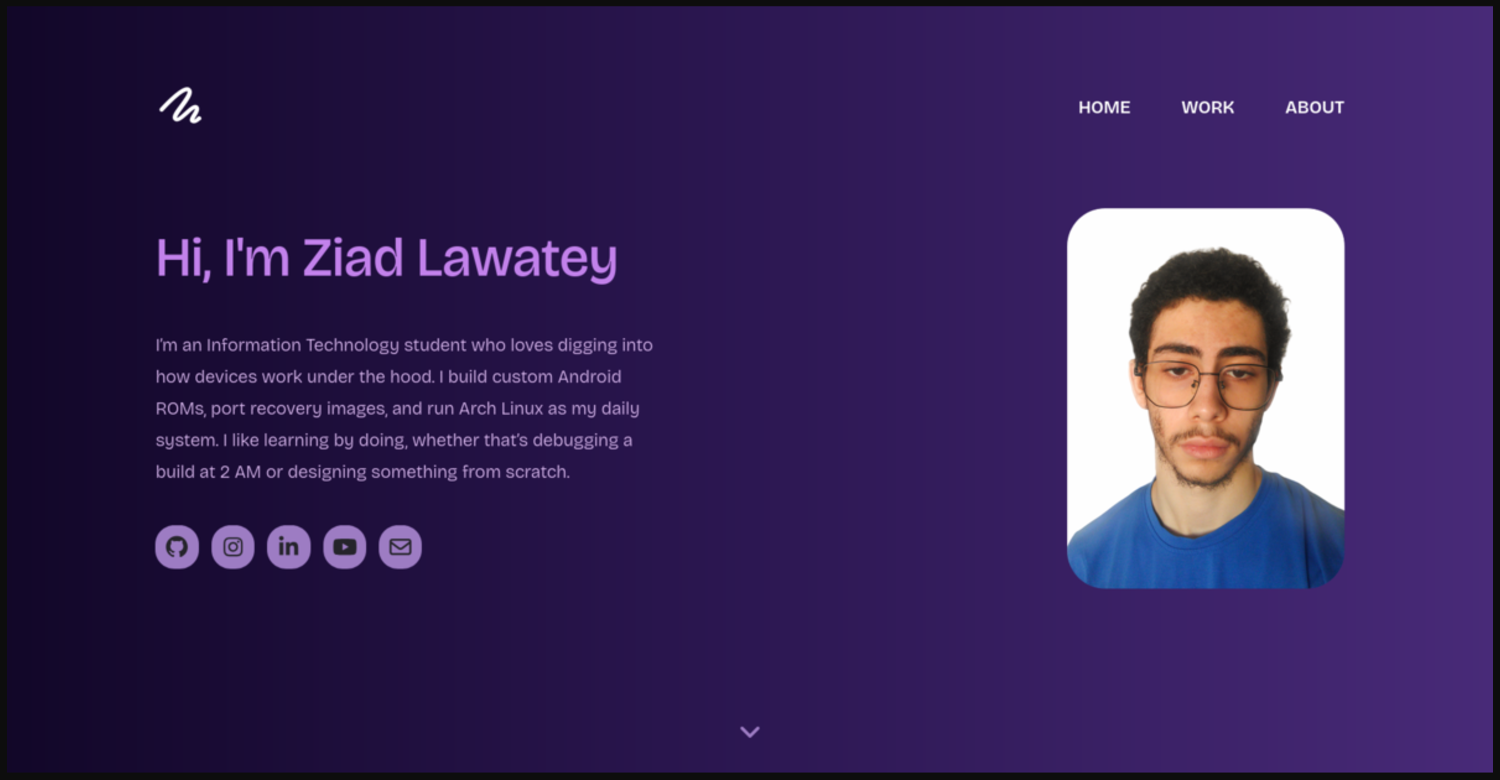
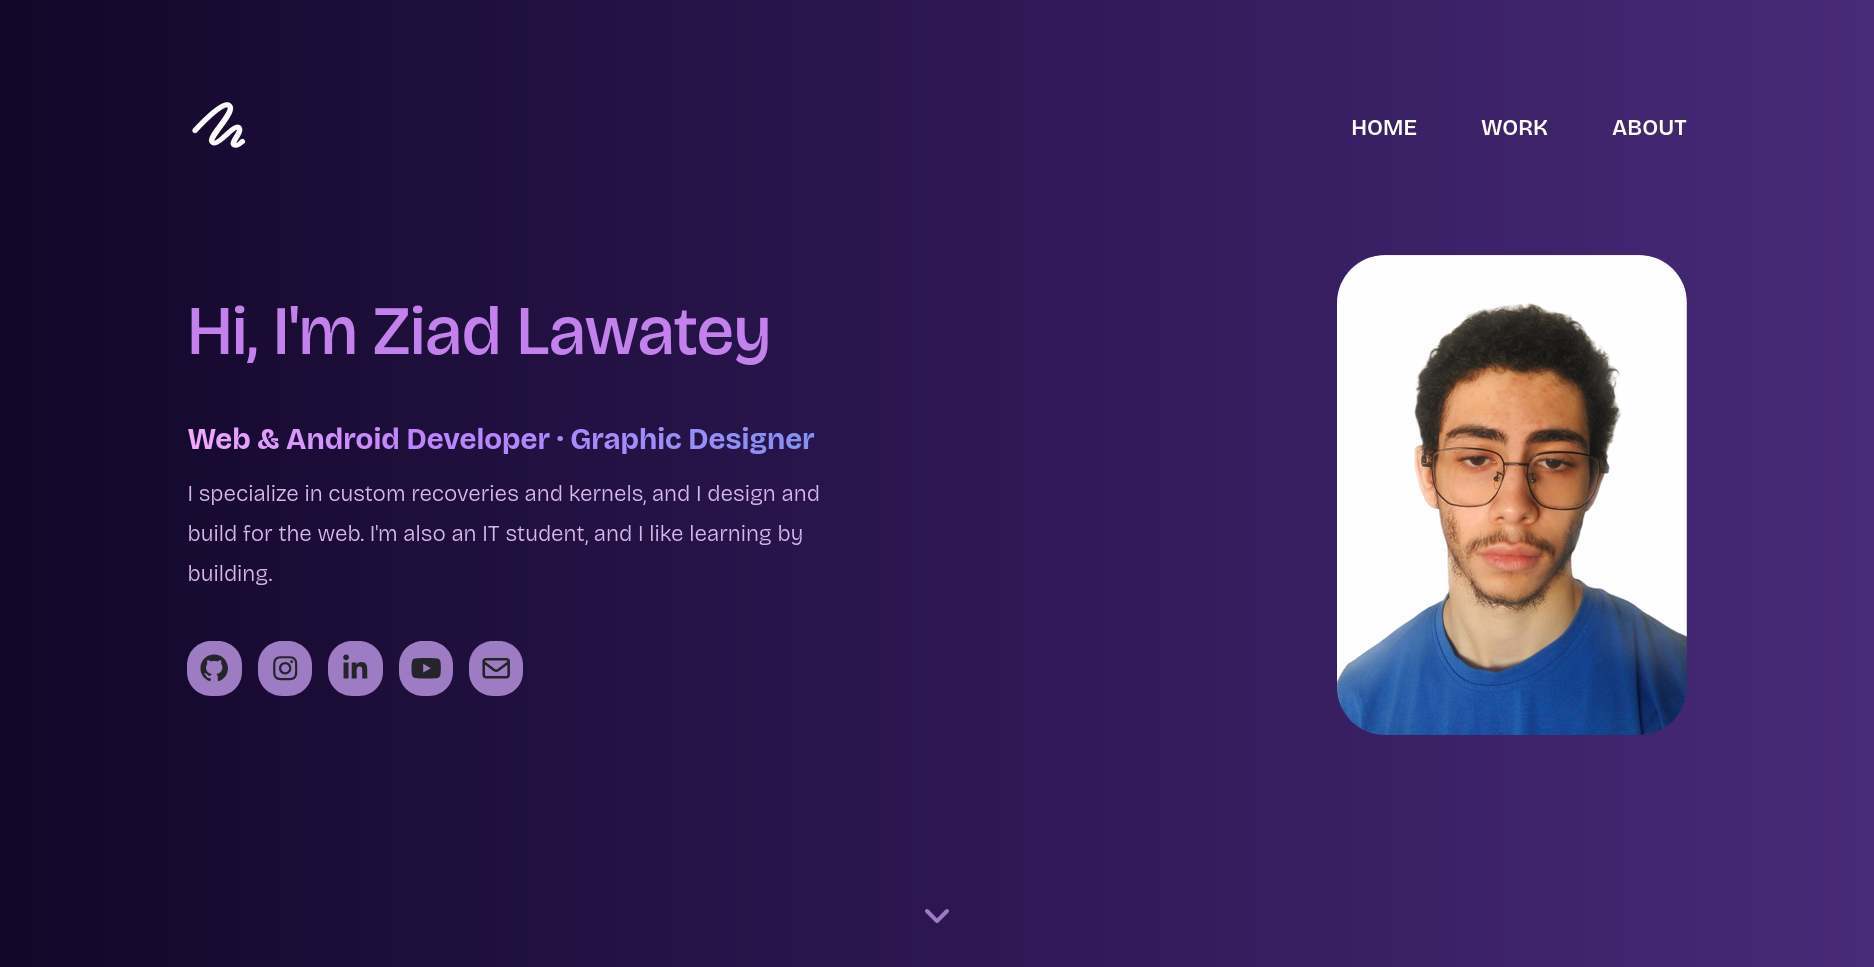
Adding cool hover animation on the nav bar with some fixes too

diff --git a/index.html b/index.html
@@ -75,24 +75,35 @@
       </a>
       <nav>
         <ul>
-          <li><a href="#home">HOME</a></li>
-          <li><a href="#work">WORK</a></li>
-          <li><a href="#about">ABOUT</a></li>
+          <li class="home">
+            <a href="#home">HOME</a>
+            <div class="home-line line"></div>
+          </li>
+          <li class="work">
+            <a href="#work">WORK</a>
+            <div class="work-line line"></div>
+          </li>
+          <li class="about">
+            <a href="#about">ABOUT</a>
+            <div class="about-line line"></div>
+          </li>
         </ul>
+        <div class="bottom-line"></div>
       </nav>
     </header>
     <main>
       <section id="home">
-        <div class="hero-container">
+        <div class="hero">
           <div class="hero-aboutme">
             <h1>Hi, I'm Ziad Lawatey</h1>
-            <p>
-              I’m an Information Technology student who loves digging into how
-              devices work under the hood. I build custom Android ROMs, port
-              recovery images, and run Arch Linux as my daily system. I like
-              learning by doing, whether that’s debugging a build at 2 AM or
-              designing something from scratch.
-            </p>
+            <div class="hero-text">
+              <h3>Web & Android Developer · Graphic Designer</h3>
+              <p>
+                I specialize in custom recoveries and kernels, and I design and
+                build for the web. I'm also an IT student, and I like learning
+                by building.
+              </p>
+            </div>
             <ul class="hero-links">
               <li>
                 <a
@@ -167,14 +178,31 @@
           </div>
           <img src="assets/selfie.png" class="hero-selfie" alt="selfie" />
         </div>
-        <a href="#work" class="next-section-arrow"
+        <a href="#work" class="next-section-arrow" aria-label="Scroll to work"
           ><svg xmlns="http://www.w3.org/2000/svg" viewBox="0 0 640 640">
             <path
               d="M297.4 438.6C309.9 451.1 330.2 451.1 342.7 438.6L502.7 278.6C515.2 266.1 515.2 245.8 502.7 233.3C490.2 220.8 469.9 220.8 457.4 233.3L320 370.7L182.6 233.4C170.1 220.9 149.8 220.9 137.3 233.4C124.8 245.9 124.8 266.2 137.3 278.7L297.3 438.7z"
             /></svg
         ></a>
       </section>
-      <section id="work"></section>
+      <section id="work">
+        <div class="projects">
+          <label class="frontend-projects" for="front-end" checked>
+            <input type="radio" name="same" id="front-end" />
+            <span class="elbolbol">WEBSITES</span>
+          </label>
+
+          <label class="graphic-projects" for="graphic-design">
+            <input type="radio" name="same" id="graphic-design" />
+            <span class="elbolbol">GRAPHIC DESIGNS</span>
+          </label>
+
+          <label class="android-projects" for="android">
+            <input type="radio" name="same" id="android" />
+            <span class="elbolbol">ADNROID</span>
+          </label>
+        </div>
+      </section>
       <section id="about"></section>
       <a href="#home" class="back-to-top">
         <svg

diff --git a/src/styles/styles.css b/src/styles/styles.css
@@ -23,7 +23,7 @@
   /* space above and below the header */
   --header-gap: 4.85em;
   /* height of the hero so the first screen is filled */
-  --home-h: calc(100vh - 150px - 2 * var(--header-gap));
+  --home-h: calc(100vh - 100px - 2 * var(--header-gap));
 }
 
 body {
@@ -73,13 +73,39 @@ nav ul {
 }
 
 nav li {
+  position: relative;
   margin-left: 4rem;
   font-size: 1.4rem;
   color: #fff;
 }
 
-nav li:first-child {
+nav .home {
   margin-left: 0;
+}
+
+.line {
+  /* display: none; */
+  position: absolute;
+  width: 0;
+  bottom: -5px;
+  height: 2px;
+  background-color: var(--icon-bg);
+  transition: width 0.4s;
+}
+
+nav:has(.home:hover) .home-line {
+  display: block;
+  width: 100%;
+}
+
+nav:has(.work:hover) .work-line {
+  display: block;
+  width: 100%;
+}
+
+nav:has(.about:hover) .about-line {
+  display: block;
+  width: 100%;
 }
 
 #home {
@@ -91,7 +117,7 @@ nav li:first-child {
   scroll-margin-top: var(--home-h);
 }
 
-.hero-container {
+.hero {
   display: grid;
   grid-template-columns: 1fr auto;
   grid-template-areas: "aboutme selfie";
@@ -116,7 +142,7 @@ nav li:first-child {
   transform: translateX(100px);
   transition:
     transform 0.3s ease-in-out,
-    bottom 0.3s ease-out;
+    bottom 0.2s ease-out;
 }
 
 .back-to-top svg {
@@ -138,14 +164,31 @@ nav li:first-child {
   font-weight: 500;
 }
 
-.hero-aboutme p {
+.hero-text {
   min-width: 25rem;
   max-width: 40rem;
   margin: 3rem 0;
   color: var(--text);
+}
+
+.hero-text h3 {
+  background: linear-gradient(
+    90deg,
+    #f0abfc 0%,
+    #c084fc 35%,
+    #a78bfa 65%,
+    #8093f1 100%
+  );
+  color: transparent;
+  background-clip: text;
+  font-size: 1.85rem;
+  margin-bottom: 1rem;
+}
+
+.hero-text p {
+  line-height: 2.5rem;
   font-size: 1.4rem;
   font-weight: 300;
-  line-height: 2.5rem;
 }
 
 .hero-links {
@@ -175,21 +218,40 @@ nav li:first-child {
 .next-section-arrow {
   width: 2.5em;
   height: 2.5em;
-  margin: 0 auto;
+  margin: 0 auto 2rem;
   fill: var(--icon-bg);
 }
 
 #work {
   min-height: 100vh;
+  scroll-margin-top: var(--header-h);
+}
+
+.projects {
+  display: flex;
+  justify-content: space-between;
+  padding: 20px;
+  user-select: none;
+}
+
+.projects label {
+  background-color: #2c1752;
+}
+
+.projects input[type="radio"] {
+  display: none;
+}
+
+input:checked ~ .elbolbol {
+  color: white;
+}
+
+.sections h1 {
+  color: black;
 }
 
 #about {
   min-height: calc(100vh - 6.25rem);
-}
-
-#work {
-  /* keeps the section from hiding under the sticky header */
-  scroll-margin-top: var(--header-h);
 }
 
 footer {

diff --git a/src/glassy-cursors/glassy-cursors.js b/src/glassy-cursors/glassy-cursors.js
@@ -1,6 +1,7 @@
 (() => {
   if (!matchMedia("(hover: hover) and (pointer: fine)").matches) return;
 
+  const root = document.documentElement;
   const el = document.createElement("div");
   el.className = "glass-cursor";
   el.dataset.state = "default";
@@ -31,13 +32,37 @@
   let state = "default";
   let frame = 0;
 
+  let cachedTarget = null;
+  let cachedCursor = "auto";
+
+  // Reads the cursor your CSS gives the element, ignoring the "cursor: none" hiding rule
+  function nativeCursor(t) {
+    if (t === cachedTarget) return cachedCursor;
+    const had = root.classList.contains("has-glass-cursor");
+    root.classList.remove("has-glass-cursor");
+    cachedCursor = getComputedStyle(t).cursor;
+    if (had) root.classList.add("has-glass-cursor");
+    cachedTarget = t;
+    return cachedCursor;
+  }
+
   function pick(t) {
     if (!(t instanceof Element)) return "default";
     if (t.closest(BLOCKED)) return "not-allowed";
-    if (t.closest(".cursor-grabbing") || (pressed && t.closest(GRAB)))
+
+    const c = nativeCursor(t);
+
+    if (
+      t.closest(".cursor-grabbing") ||
+      (pressed && t.closest(GRAB)) ||
+      c.includes("grabbing") ||
+      (pressed && c.includes("grab"))
+    )
       return "grabbing";
-    if (t.closest(TEXT)) return "text";
-    if (t.closest(POINTER)) return "pointer";
+    if (c.includes("not-allowed")) return "not-allowed";
+    if (t.closest(TEXT) || c.includes("text")) return "text";
+    if (c.includes("pointer") || c.includes("grab") || t.closest(POINTER))
+      return "pointer";
     return "default";
   }
 
@@ -62,7 +87,7 @@
       x = e.clientX;
       y = e.clientY;
       target = e.target;
-      document.documentElement.classList.add("has-glass-cursor");
+      root.classList.add("has-glass-cursor");
       el.classList.add("visible");
       update();
     },
@@ -71,15 +96,17 @@
 
   document.addEventListener("mousedown", () => {
     pressed = true;
+    cachedTarget = null;
     update();
   });
 
   document.addEventListener("mouseup", () => {
     pressed = false;
+    cachedTarget = null;
     update();
   });
 
-  document.documentElement.addEventListener("mouseleave", () => {
+  root.addEventListener("mouseleave", () => {
     el.classList.remove("visible");
   });
 })();
